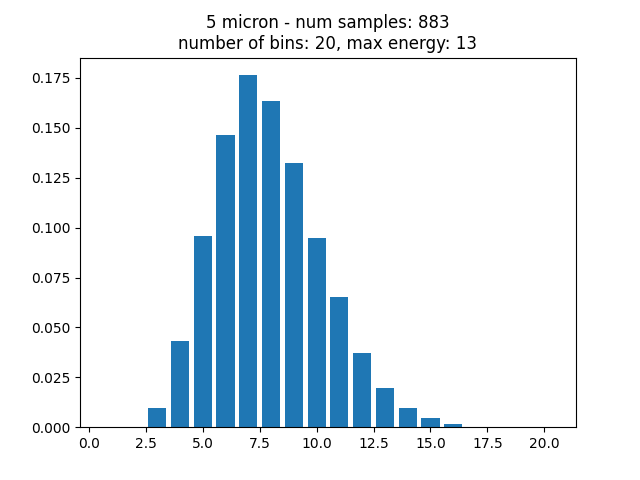
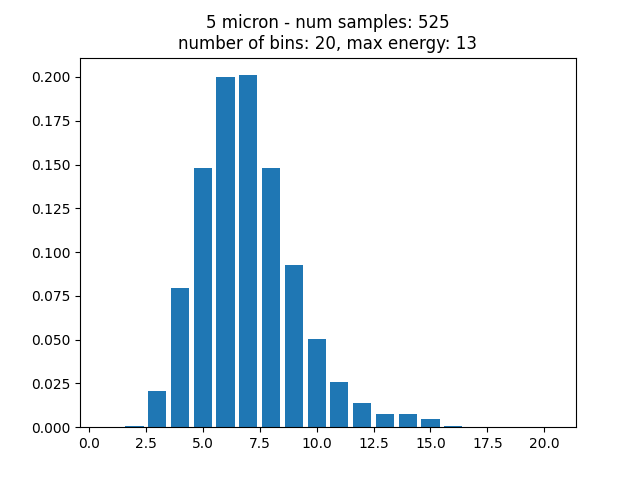
updated

diff --git a/utils/show_before_run.py b/utils/show_before_run.py
@@ -21,6 +21,25 @@ for mic in mic_list:
     en_dep = EcalDataIO.ecalmatio(os.path.join('./data', 'raw', f'signal.al.elaser.IP0{mic}.edeplist.mat'))  # Dict with 100000 samples {(Z,X,Y):energy_stamp}
     energies = EcalDataIO.energymatio(os.path.join('./data', 'raw', f'signal.al.elaser.IP0{mic}.energy.mat'))
 
+    if mic == 3:
+        my_keys = energies.keys()
+        del_list = list()
+        for key in my_keys:
+            if len(energies[key]) > 10 and len(energies[key]) < 609:
+                del_list.append(key)
+        for key in del_list:
+            del en_dep[key]
+            del energies[key]
+
+    if mic == 5:
+        my_keys = energies.keys()
+        del_list = list()
+        for key in my_keys:
+            if len(energies[key]) > 10 and len(energies[key]) < 203:
+                del_list.append(key)
+        for key in del_list:
+            del en_dep[key]
+            del energies[key]
 
     en_list = [energy for energy in energies.values()]
     num_classes = 20
@@ -61,11 +80,12 @@ for mic in mic_list:
 
 plt.figure()
 plt.clf()
+alphas = [0.3, 0.5]
 for i in range(2):
-    plt.bar(rng_list[i], sumy_list[i], label=f'{mic_list[i]} micron')
+    plt.bar(rng_list[i], sumy_list[i], label=f'{mic_list[i]} micron', alpha=alphas[i])
 plt.title('3 micron target vs. 5 micron target')
 plt.legend()
-plt.savefig(f'./figures/target: 3_vs_5')
+plt.savefig(f'./figures/target 3_vs_5')
 
 
 exit()
